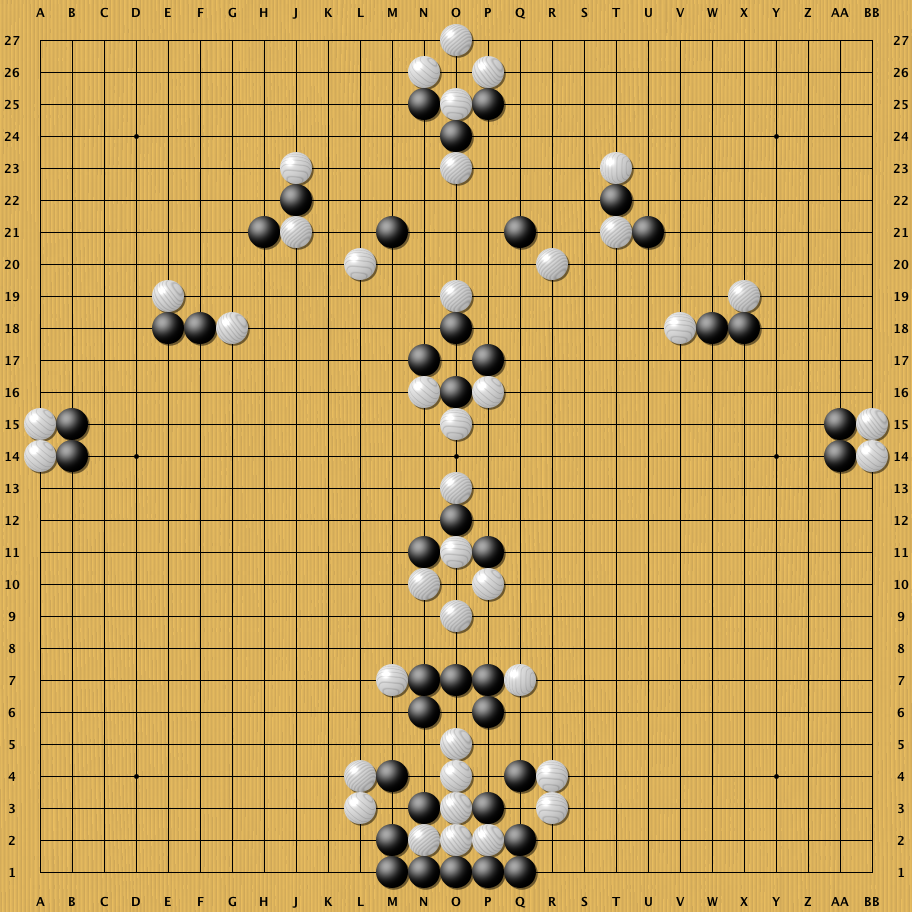
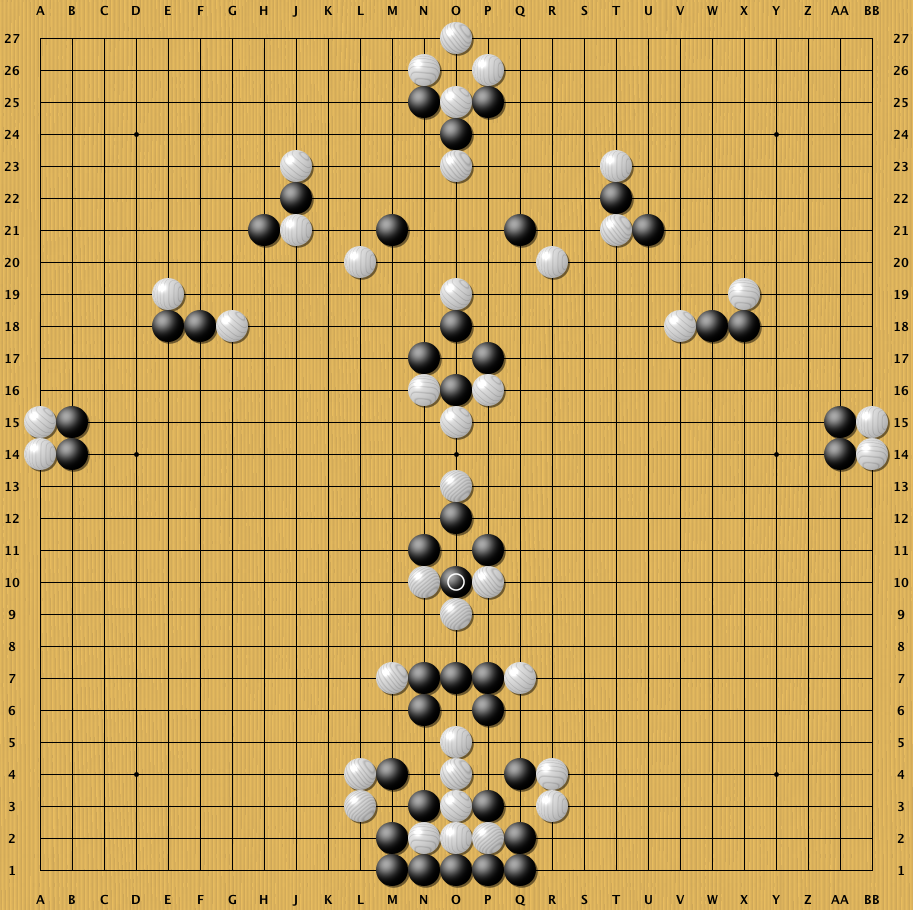
fix first move and add sgf

diff --git a/go.html b/go.html
@@ -214,9 +214,7 @@ Preliminary version of <A HREF="lad.ps">
 Ladders are PSPACE complete
 </A>
 <P>
-<A HREF="img/WO5lives.png">
-White O5 to live
-</A>
+<A HREF="img/WO5lives.png">White O5 to live</A> (<A HREF="go/WO5lives.sgf">spoiler</A>)
 <P>
 I just noticed that people are discussing this problem on <A HREF="http://senseis.xmp.net/?path=BigQuestionMark&page=BQM336">sensei's</A>
 and found it broken; I should have put it on a bigger board, like 15x15,
